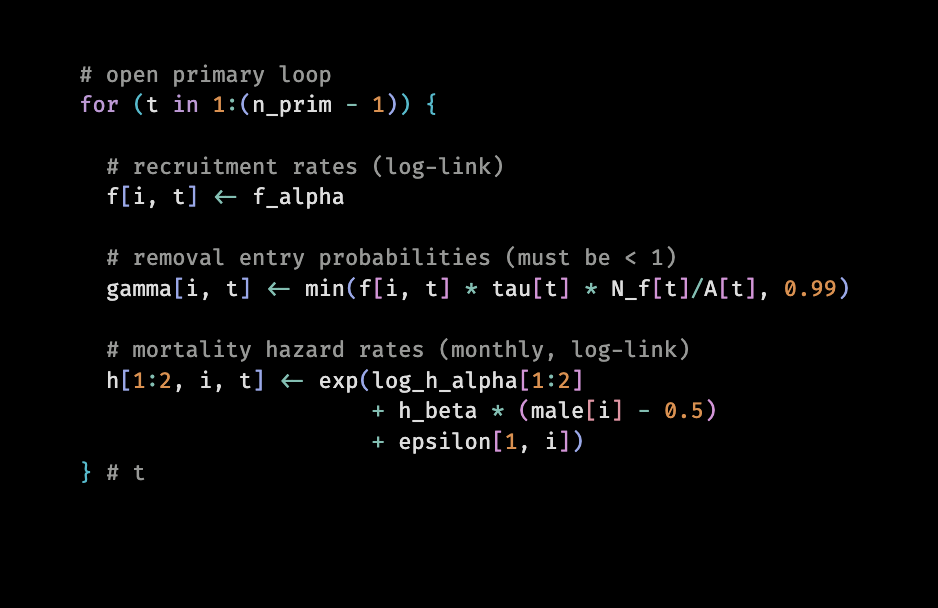
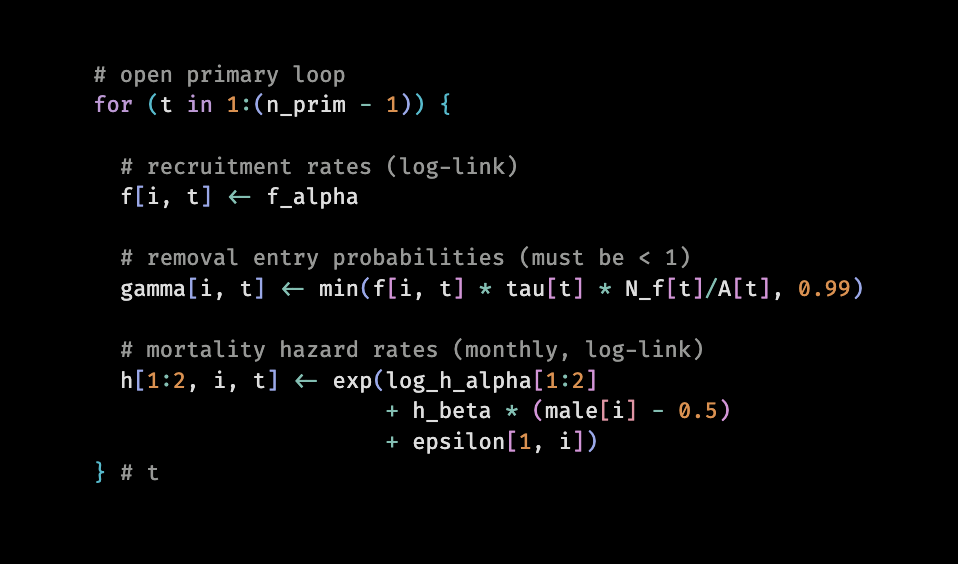
ci2

diff --git a/docs/portfolio/christmas-island.html b/docs/portfolio/christmas-island.html
@@ -69,13 +69,13 @@ ul.task-list li input[type="checkbox"] {
 <meta property="og:description" content="Trial releases of critically endangered lizards on Christmas Island.">
 <meta property="og:image" content="https://quantecol.com.au/img/ci-thumbnail.png">
 <meta property="og:site-name" content="Quantecol">
-<meta property="og:image:height" content="608">
-<meta property="og:image:width" content="938">
+<meta property="og:image:height" content="564">
+<meta property="og:image:width" content="958">
 <meta name="twitter:title" content="Quantecol - Christmas Island">
 <meta name="twitter:description" content="Trial releases of critically endangered lizards on Christmas Island.">
 <meta name="twitter:image" content="https://quantecol.com.au/img/ci-thumbnail.png">
-<meta name="twitter:image-height" content="608">
-<meta name="twitter:image-width" content="938">
+<meta name="twitter:image-height" content="564">
+<meta name="twitter:image-width" content="958">
 <meta name="twitter:card" content="summary_large_image">
 </head>
 

diff --git a/docs/portfolio.html b/docs/portfolio.html
@@ -99,12 +99,12 @@ ul.task-list li input[type="checkbox"] {
 <meta property="og:title" content="Quantecol - Portfolio">
 <meta property="og:image" content="https://quantecol.com.au/img/ci-thumbnail.png">
 <meta property="og:site-name" content="Quantecol">
-<meta property="og:image:height" content="608">
-<meta property="og:image:width" content="938">
+<meta property="og:image:height" content="564">
+<meta property="og:image:width" content="958">
 <meta name="twitter:title" content="Quantecol - Portfolio">
 <meta name="twitter:image" content="https://quantecol.com.au/img/ci-thumbnail.png">
-<meta name="twitter:image-height" content="608">
-<meta name="twitter:image-width" content="938">
+<meta name="twitter:image-height" content="564">
+<meta name="twitter:image-width" content="958">
 <meta name="twitter:card" content="summary_large_image">
 </head>
 
